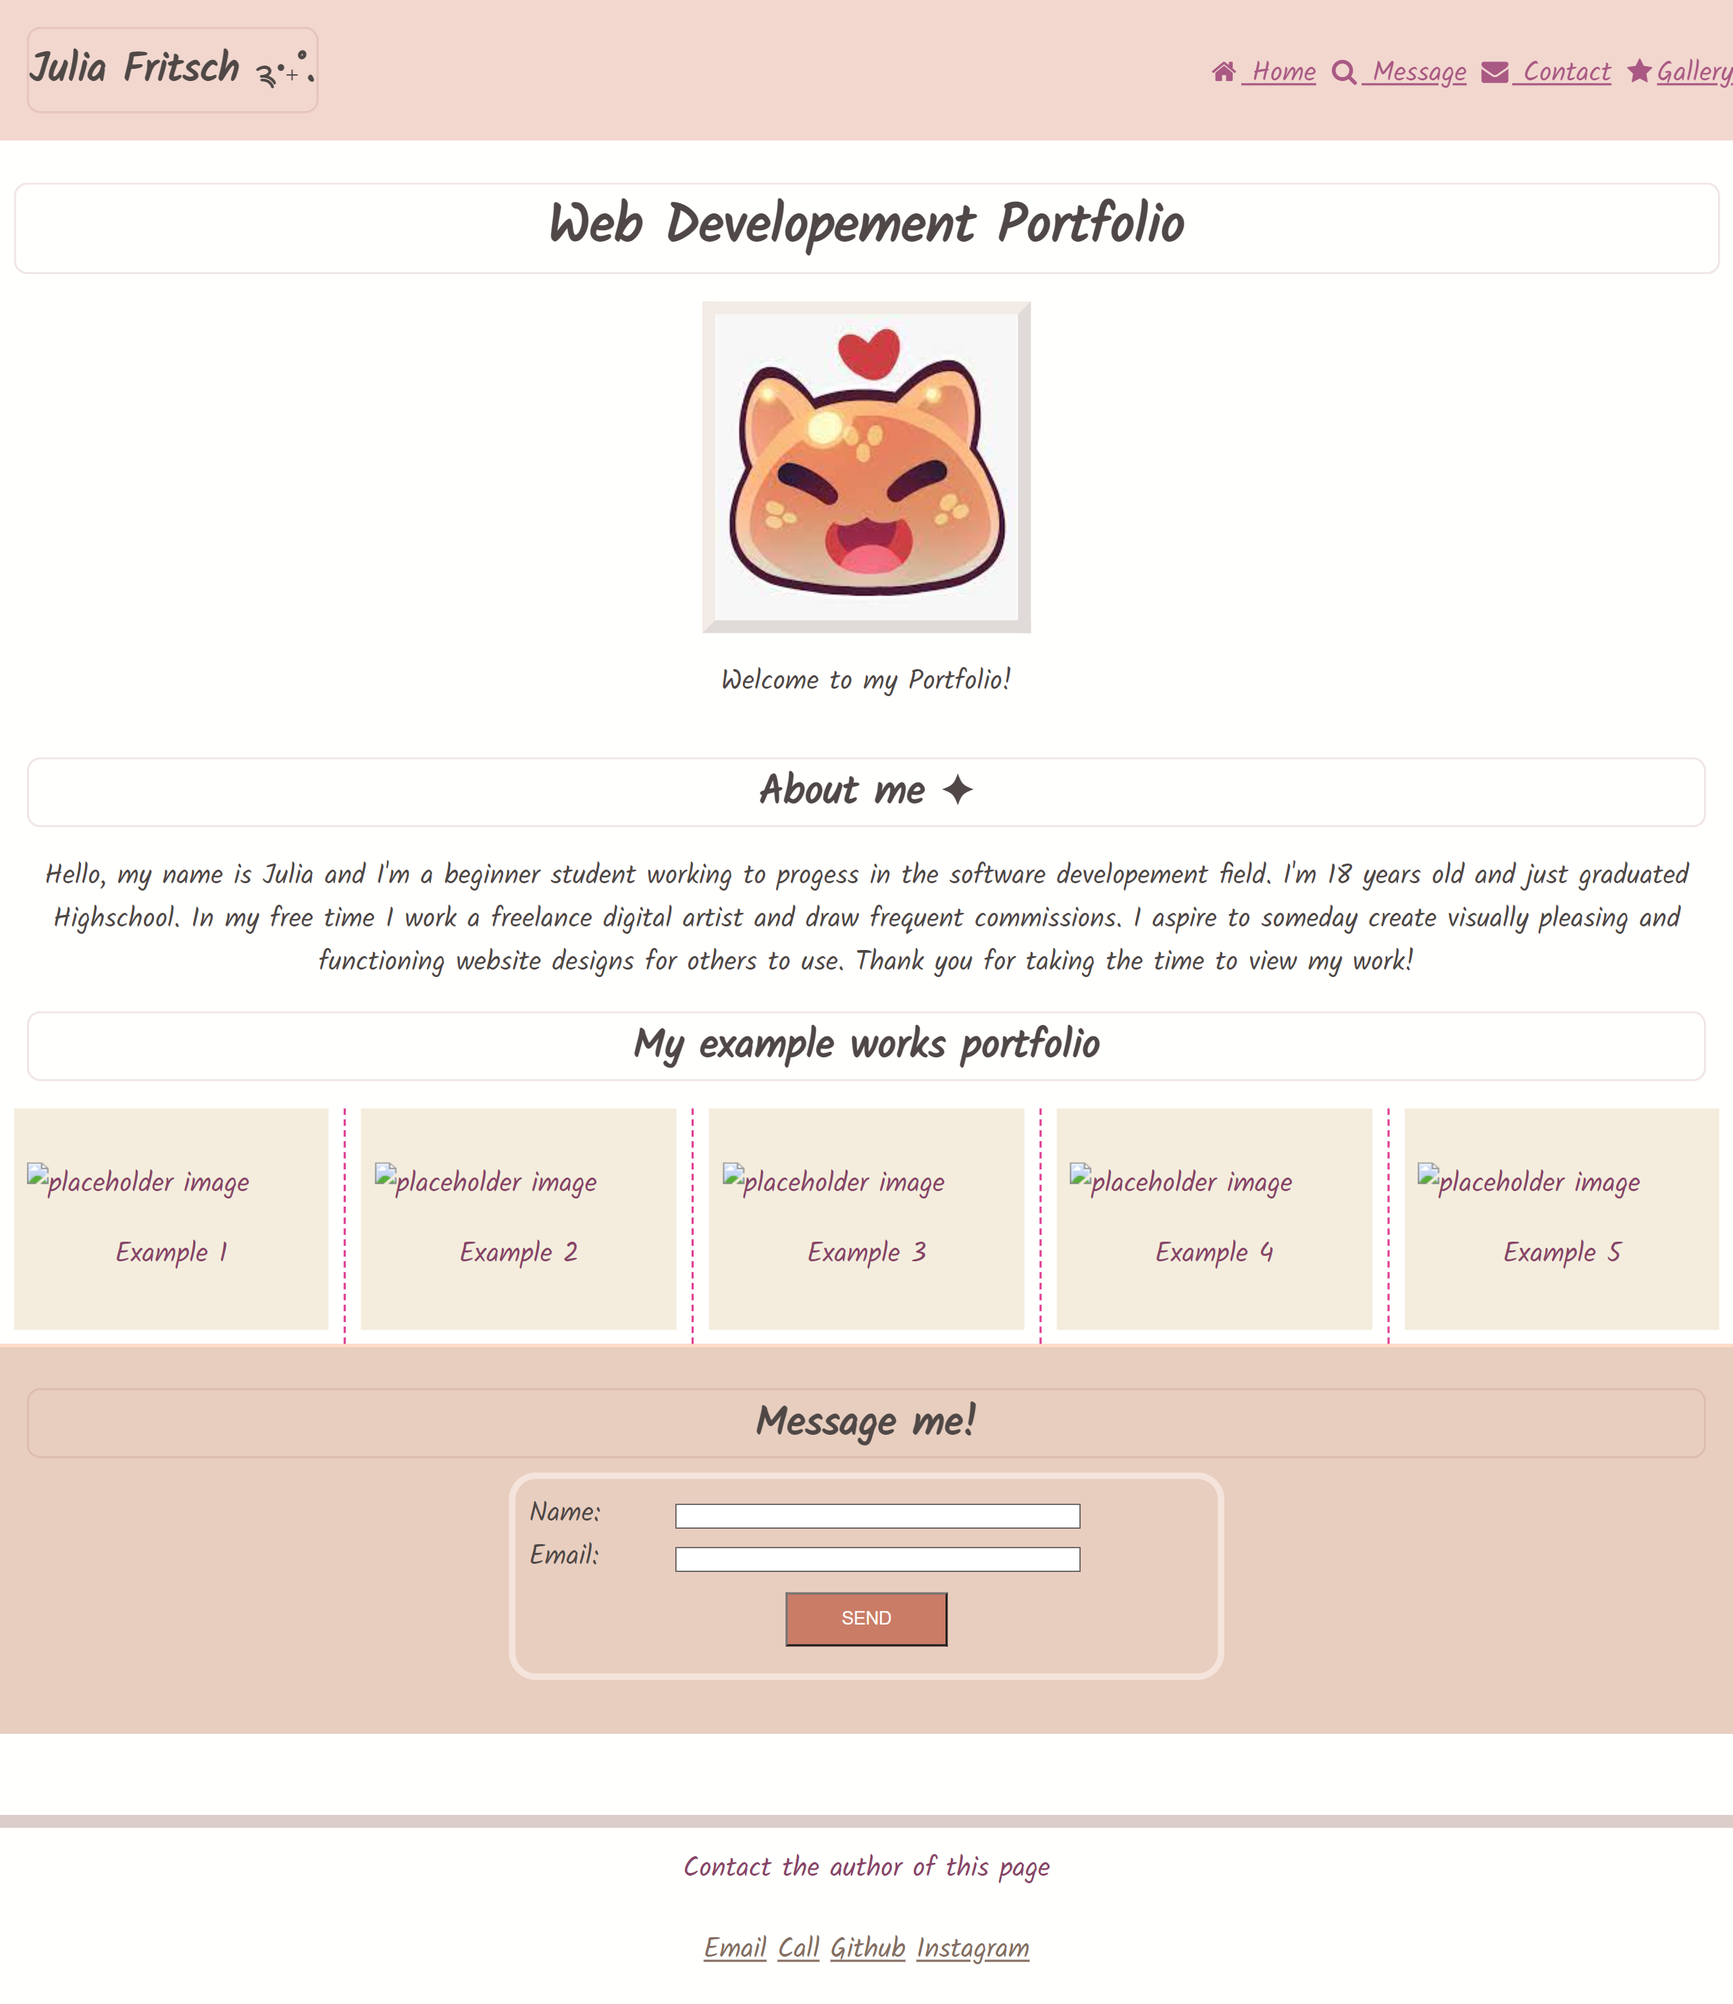
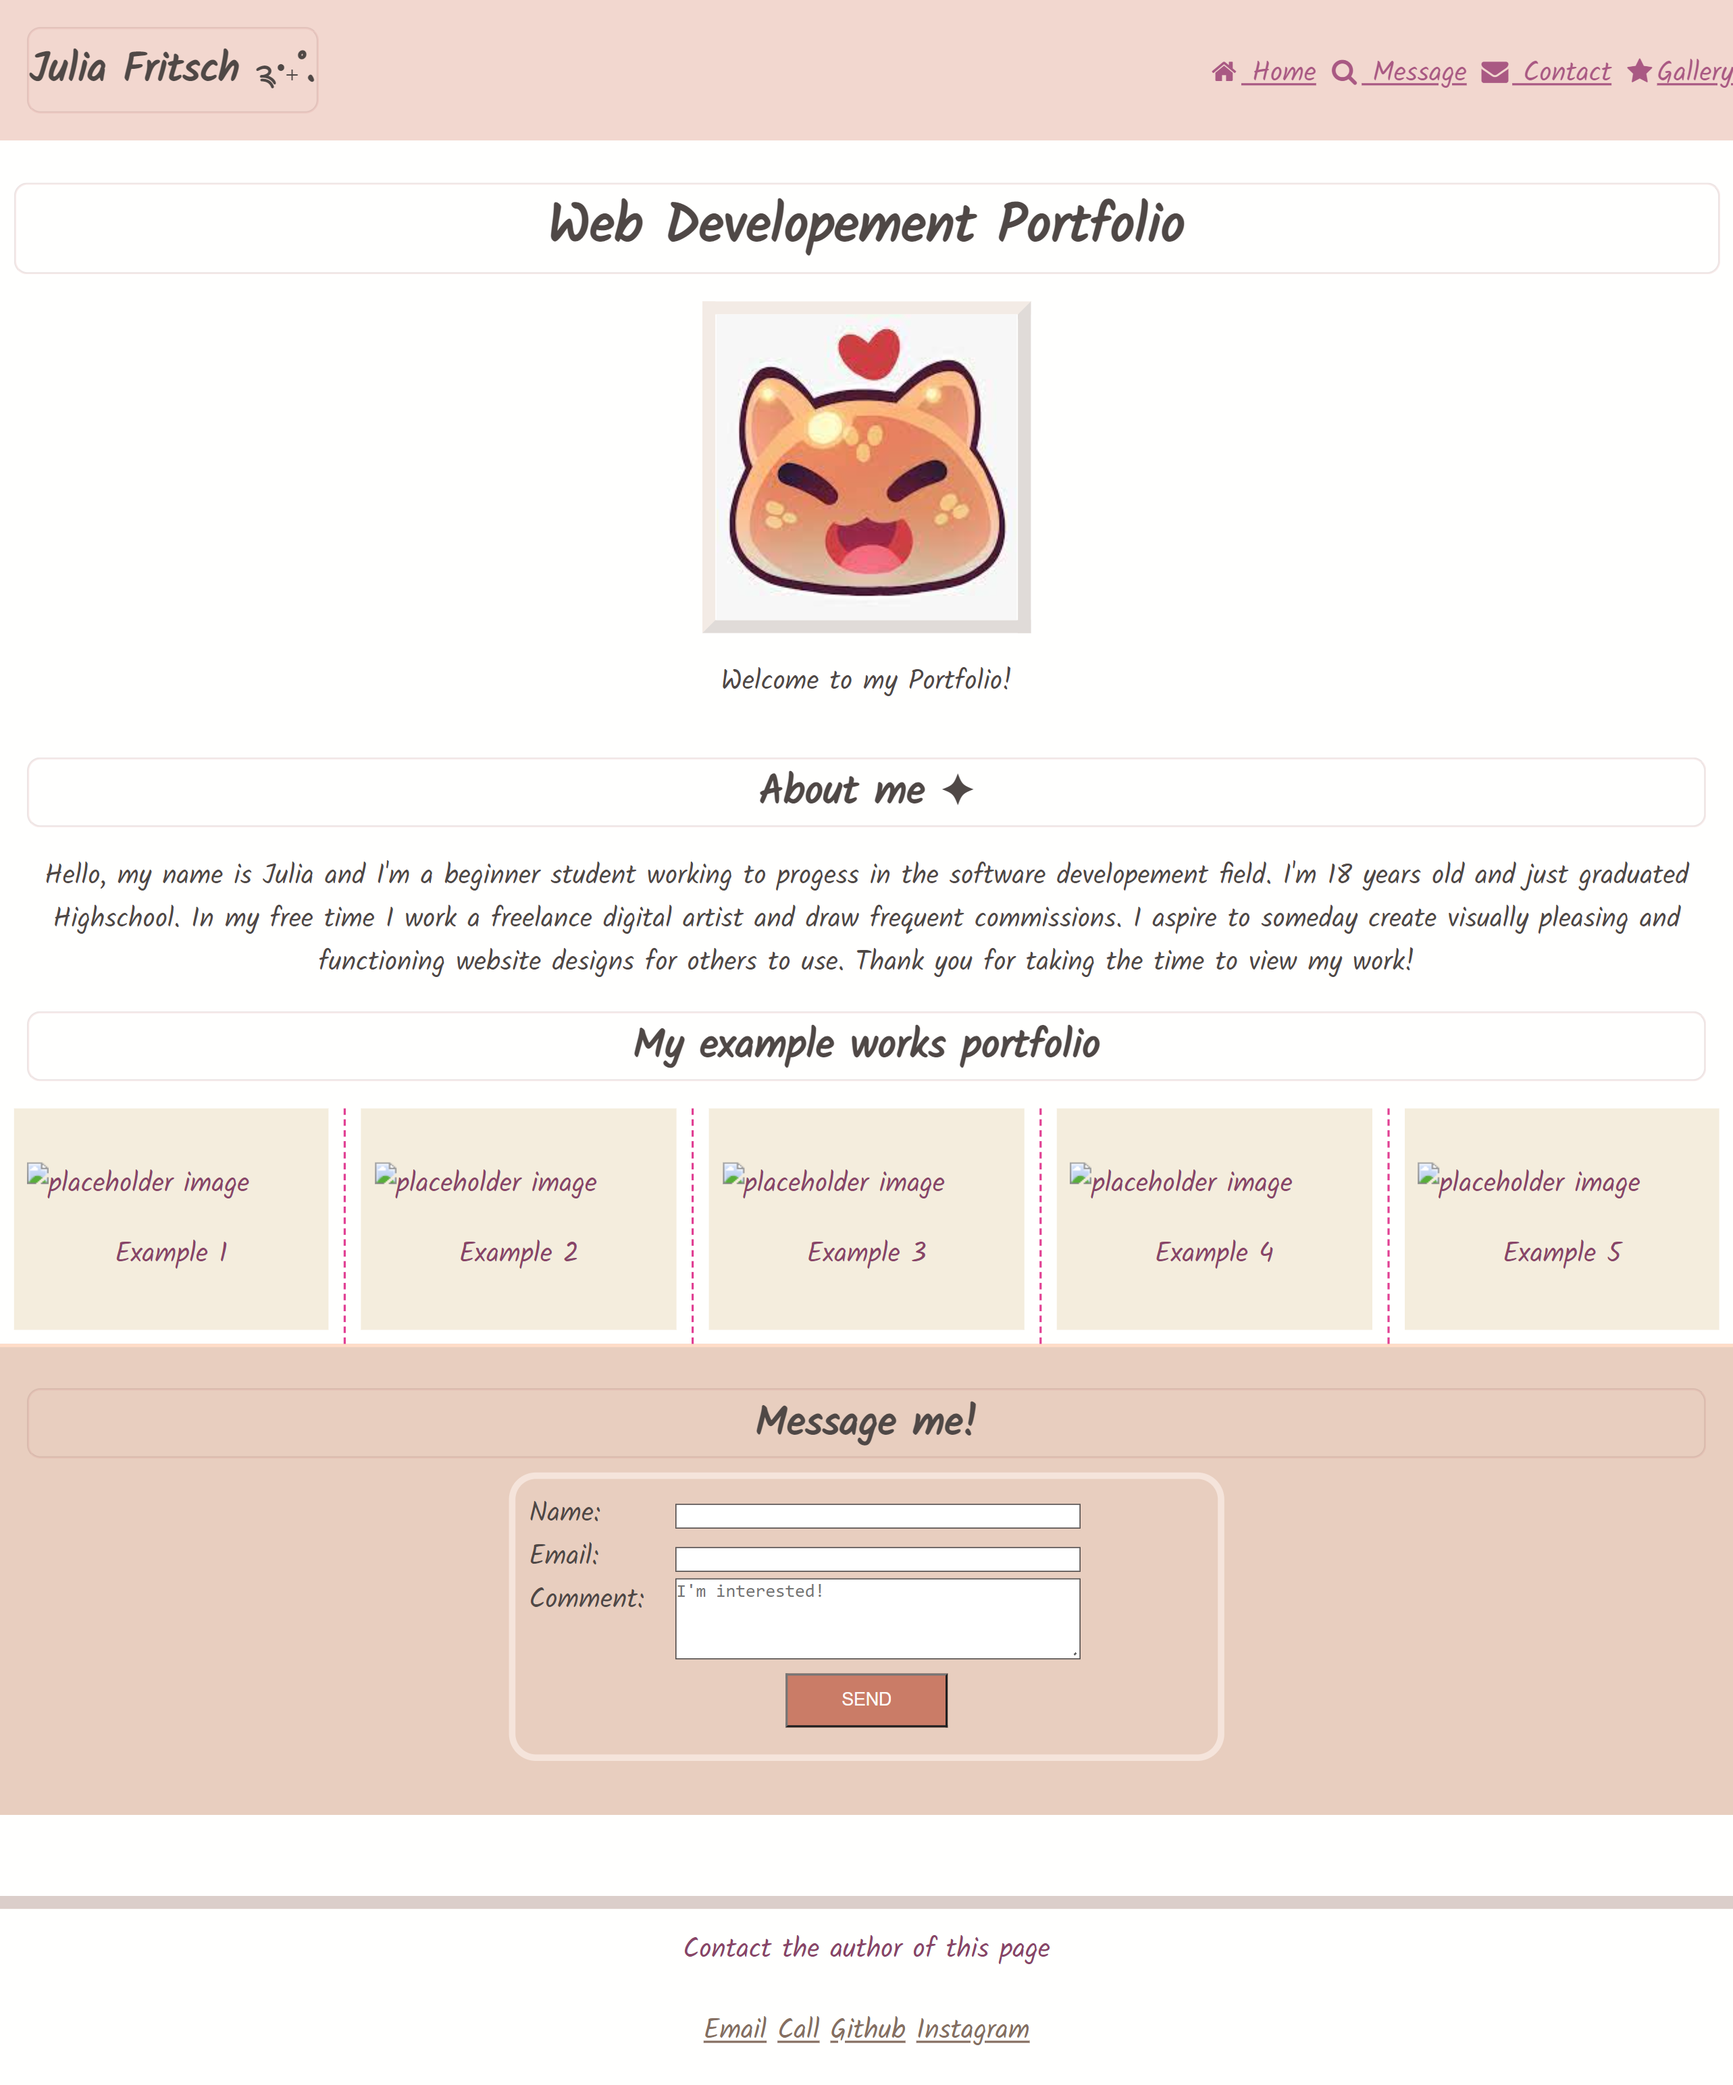
fixed-form

diff --git a/index.html b/index.html
@@ -76,6 +76,8 @@
                         <label class="text-right" for="email">Email:</label>
                         <input type="text" id="email" name="user-email">
                     </li>
+                    <li><label for="comment">Comment:</label>
+                        <textarea class="text-input" id="comment" placeholder="I'm interested!"></textarea> </li>
                 </ul>
                 <div class="text-center">
                     <button type="submit">SEND</button>
